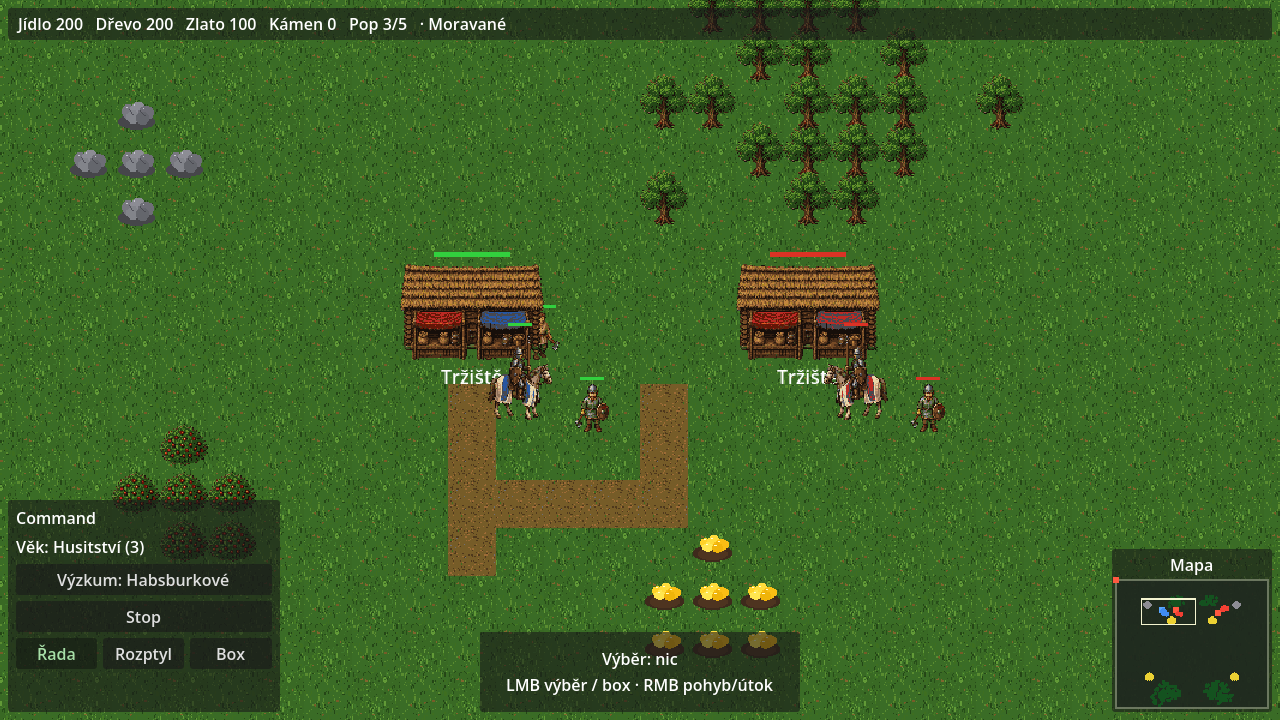
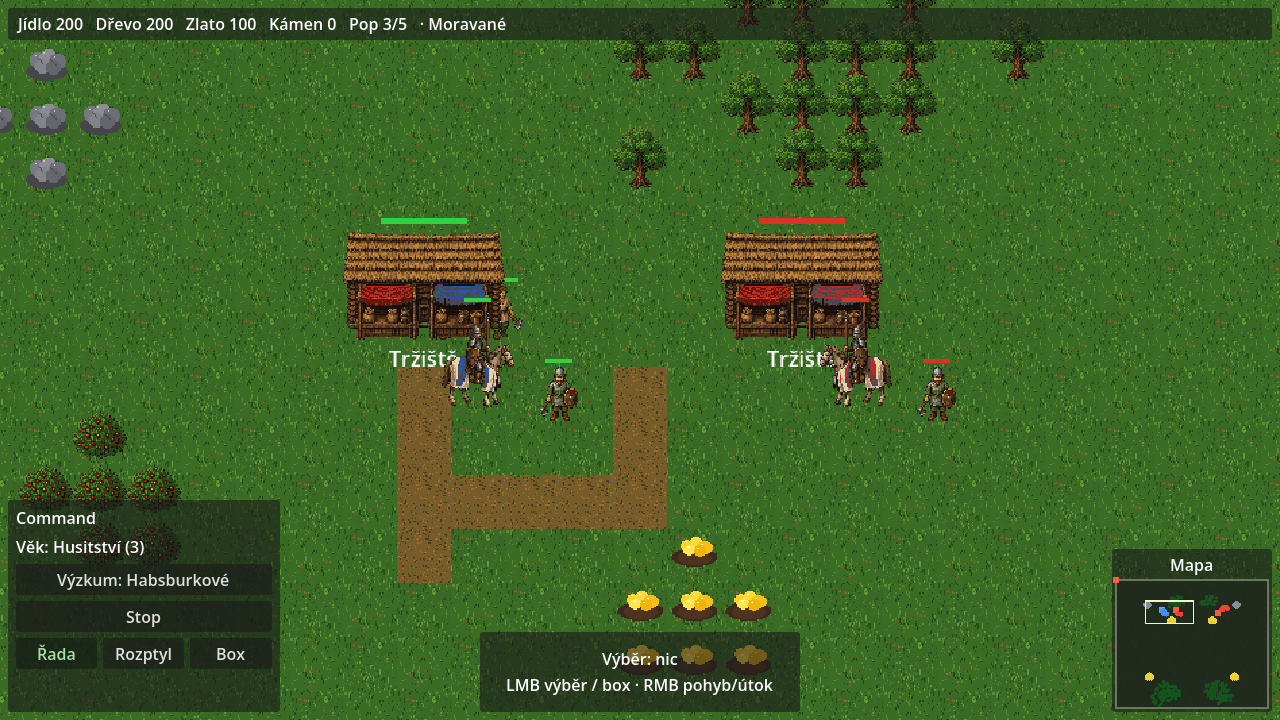
T-18: restore AI tint fallback for sprites without team-blue.
Detect team-blue at texture load (cached); art-debt units/buildings keep soft AI modulate so enemies stay readable; smoke asserts Soldier tint + Knight shader AI; refresh ART.md + screenshot.

diff --git a/docs/ART.md b/docs/ART.md
@@ -79,12 +79,12 @@ AoE II-style team colour via `assets/shaders/team_recolour.gdshader` + `TeamColo
 
 - PNGs keep the shared 32-colour palette. Only the baked **team blue** `(40, 86, 160)` is swapped.
 - Player → `TeamColors.PLAYER` (same blue); AI → `TeamColors.AI` (red `188, 42, 36`). Constants live in one place for more teams later.
-- Applied on unit/building/`DropOff` visuals; whole-sprite modulate tint removed. Minimap unit/building dots use the same blue/red.
+- Applied on unit/building/`DropOff` visuals. Sprites **with** team-blue use the palette-swap shader and modulate WHITE. Sprites **without** team-blue (detected at texture load, cached) keep the previous soft AI tint for the AI team — units `Color(1.0, 0.55, 0.55)`, buildings/`DropOff` `Color(0.75, 0.45, 0.45)` — so enemies stay readable until artists paint team indices. Minimap unit/building dots use the same blue/red.
 - Screenshot: `docs/screenshots/t18_team_colours.png`.
 
 ### Art debt (no team pixels yet — do not hand-paint)
 
-Sprites without distinguishable `(40, 86, 160)` team indices (shader is a no-op on them until artists add cloth/banner/shield team blue):
+Sprites without distinguishable `(40, 86, 160)` team indices (shader is a no-op on them; tint fallback applies for AI until artists add cloth/banner/shield team blue):
 
 - **Units:** villager, soldier, spearman, archer, monk, light_cavalry, bojovnik_bradatice, druzinik, lancknecht, valecny_vuz, ram, trebuchet
 - **Buildings:** town_center, house, lumber_camp, mill, barracks, archery_range, blacksmith, stable, castle, monastery, university, siege_workshop, walls/gates/towers, construction_site
